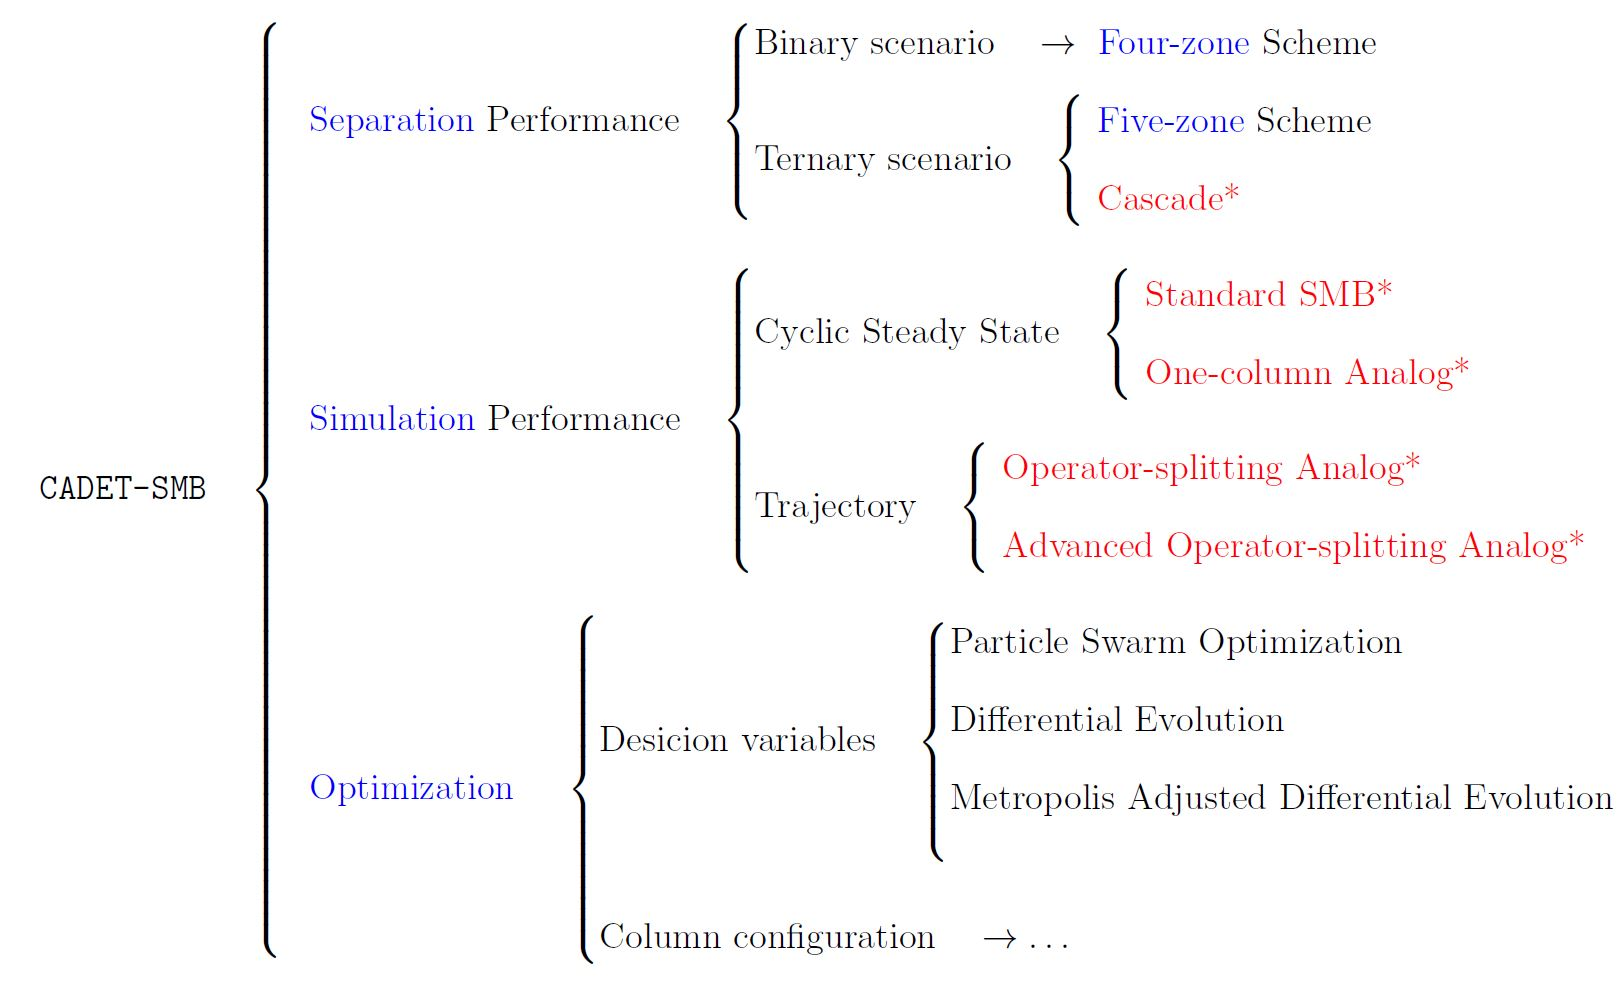
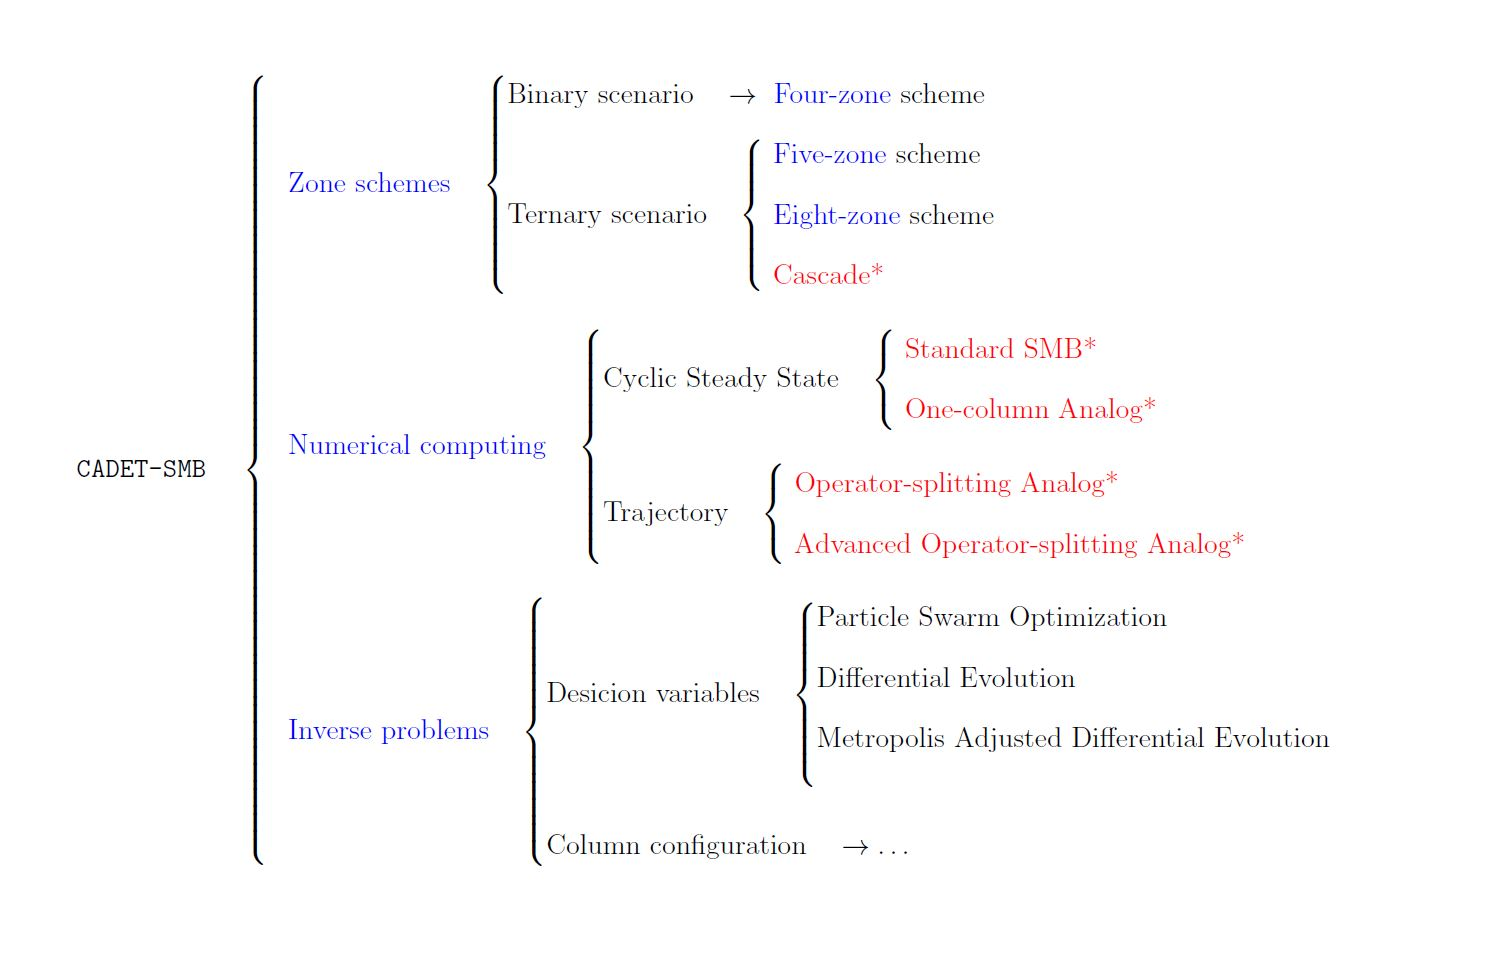
update the README file

Changed region(s): [[0.0307, 0.0306, 1.0, 0.9806], [0.6765, 0.0306, 0.861, 0.0613]]

diff --git a/simulatedMovingBed.m b/simulatedMovingBed.m
@@ -307,12 +307,9 @@ function objective = simulatedMovingBed(varargin)
     objective = SMB.objectiveFunction(Results, opt);
 
     tTotal = toc(tTotal);
-    if opt.enableDebug
-        fprintf('The time elapsed for reaching the Cyclic Steady State: %g sec \n', tTotal);
-    end
-
 %   Store the final data into DATA.mat file in the mode of forward simulation
     if opt.enableDebug
+        fprintf('The time elapsed for reaching the Cyclic Steady State: %g sec \n', tTotal);
         SMB.concDataConvertToASCII(plotData, opt);
         SMB.trajDataConvertToASCII(dyncData, opt);
         save(sprintf('Performance_%03d.mat',fix(rand*100)),'Results');

diff --git a/README.md b/README.md
@@ -22,11 +22,11 @@ Binary separation scenarios have been widely concerned in SMB chromatographic pr
 
 ![](https://github.com/modsim/CADET-SMB/blob/master/doc/Numerical_computing.JPG)
 
-Specifically, there are two major types, overall four methods that are involved in the numerical computing part. They are standard SMB approach, one-column analog approach, operator-splitting approach, advanced operator-splitting approach(@Eric, or some other name?) respectively. Additionally, the corresponding code of the four methods can be found in the homonymous GitHub branch.
+Specifically, there are two major types, overall four methods that are involved in the numerical computing part. They are standard SMB approach, one-column analog approach, operator-splitting approach, advanced operator-splitting approach respectively. Additionally, the corresponding code of the four methods can be found in the homonymous GitHub branch.
 
 It is trivial to brief the standard SMB approach here. The details are shown in the documentation file. The one-column analog approach is derived from the works of Nadia Abunasser and Phillip Wankat, Jose Mota and Joao Araujo, which is aimed to speed up convergence to the cyclic steady state (CSS) from the point of the view of the simulation. It is also regarded as an attractive alternative to the standard SMB approach, notably in the optimization situations. It is necessary to emphasize that in this branch (CSS), more attentions are paid to the convergence speed. In the following branch (trajectory), concentration dynamics will be concerned.
 
-Although in standard SMB approache and one-column analog approach the same correct CSS is converged, both of them cannot recur the actual dynamics of the concentration profiles that monitored at raffinate and extract ports (afterwards, I will just call these dynamics trajectories). It results from the concentration tracking manner, as in chromatography one can only detect the concentrations at the outlet end of the columns rather than immediate tracking. So the simulation sequence of a SMB unit is sequential, in reality it is actually simultaneous. Via operator-splitting approach in which the simulations of the columns are split into several time section intervals, the goal of obtaining correct trajectories is achieved. However in the operator-splitting approach, a big amount of time sections are required to eliminate the errors that are introduced into the system. In the advanced operator-splitting approach, the column at the very beginning of the simulations is simulated twice to compose both "true" column state and column outlet concentration profile. Hence we can approach the true trajectories by using operator-splitting and advanced operator-splitting approaches. Apparently, operator-splitting is more time-consuming than the advanced operator-splitting approach. There is a piece of evidence to back the statement that the true trajectories are obtained, by starting from different simulation starting points (e.g. feed, raffinate, extract, desorbent) the obtained trajectories coincide well with each other. In other words, the trajectory is unique. 
+Although in standard SMB approach and one-column analog approach the same correct CSS is converged, both of them cannot recur the actual dynamics of the concentration profiles that monitored at raffinate and extract ports (afterwards, I will just call these dynamics trajectories). It results from the concentration tracking manner, as in chromatography one can only detect the concentrations at the outlet end of the columns rather than immediate tracking. So the simulation sequence of a SMB unit is sequential, in reality it is actually simultaneous. Via operator-splitting approach in which the simulations of the columns are split into several time section intervals, the goal of obtaining correct trajectories is achieved. However in the operator-splitting approach, a big amount of time sections are required to eliminate the errors that are introduced into the system. In the advanced operator-splitting approach, the column at the very beginning of the simulations is simulated twice to compose both "true" column state and column outlet concentration profile. Hence we can approach the true trajectories by using operator-splitting and advanced operator-splitting approaches. Apparently, operator-splitting is more time-consuming than the advanced operator-splitting approach. There is a piece of evidence to back the statement that the true trajectories are obtained, by starting from different simulation starting points (e.g. feed, raffinate, extract, desorbent) the obtained trajectories coincide well with each other. In other words, the trajectory is unique. 
 
 
 ## Inverse problems
@@ -43,18 +43,24 @@ So far, the standard SMB approach and the one-column analog approach are combine
 
 * Binary separation is available using four-zone scheme; ternary components in binary separation are also possible;
 
-* Ternary separation can be achieved by using integrated five-zone scheme or cascade scheme; quaternary components in ternary separation are possible;
+* Ternary separation can be achieved by using integrated five-zone scheme, eight-zone scheme, or cascade scheme; quaternary components in ternary separation are possible;
 
 ![](https://github.com/modsim/CADET-SMB/blob/master/doc/scheme.JPG)
 *Four-zone scheme and five-zone scheme*
 
+![](https://github.com/modsim/CADET-SMB/blob/master/doc/scheme_8.JPG)
+*Eight-zone scheme with internal raffinate and internal extract*
 
 ![](https://github.com/modsim/CADET-SMB/blob/master/doc/cascade.JPG)
 *Cascade scheme*
 
 
 ![](https://github.com/modsim/CADET-SMB/blob/master/doc/profile_binary.JPG)
-![](https://github.com/modsim/CADET-SMB/blob/master/doc/profile_ternary.JPG)
+![](https://github.com/modsim/CADET-SMB/blob/master/doc/profile_ternary_5.JPG)
+*Chromatogram with four-zone and five-zone scheme*
+
+![](https://github.com/modsim/CADET-SMB/blob/master/doc/profile_ternary_8.JPG)
+*Chromatogram with eight-zone scheme*
 
 * In both binary and ternary separations, arbitrary column configurations are available, in addition to basic column configurations such as 1-1-1-1, 2-2-2-2-2, 3-3-3-3, and 4-4-4-4-4;
 
